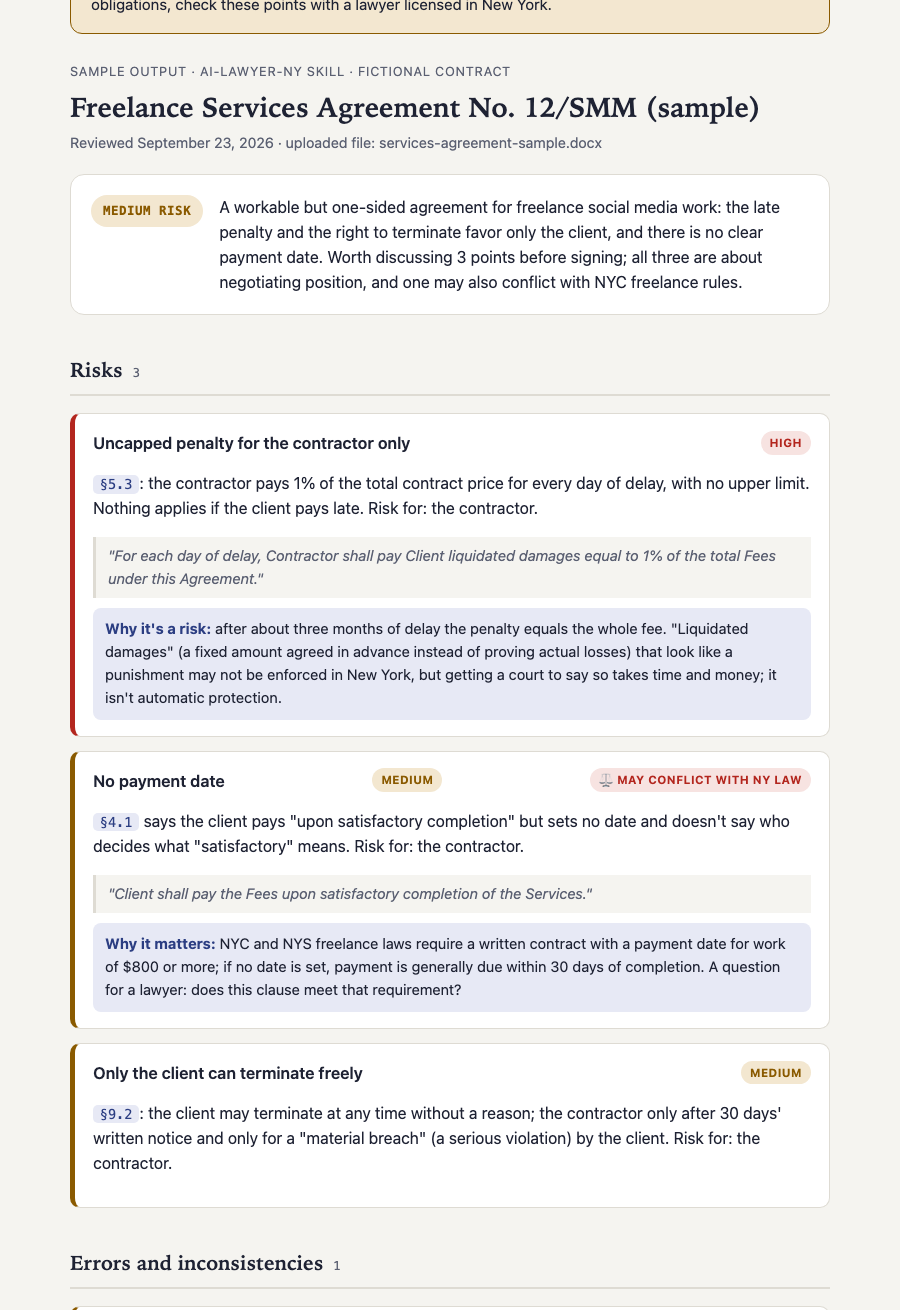
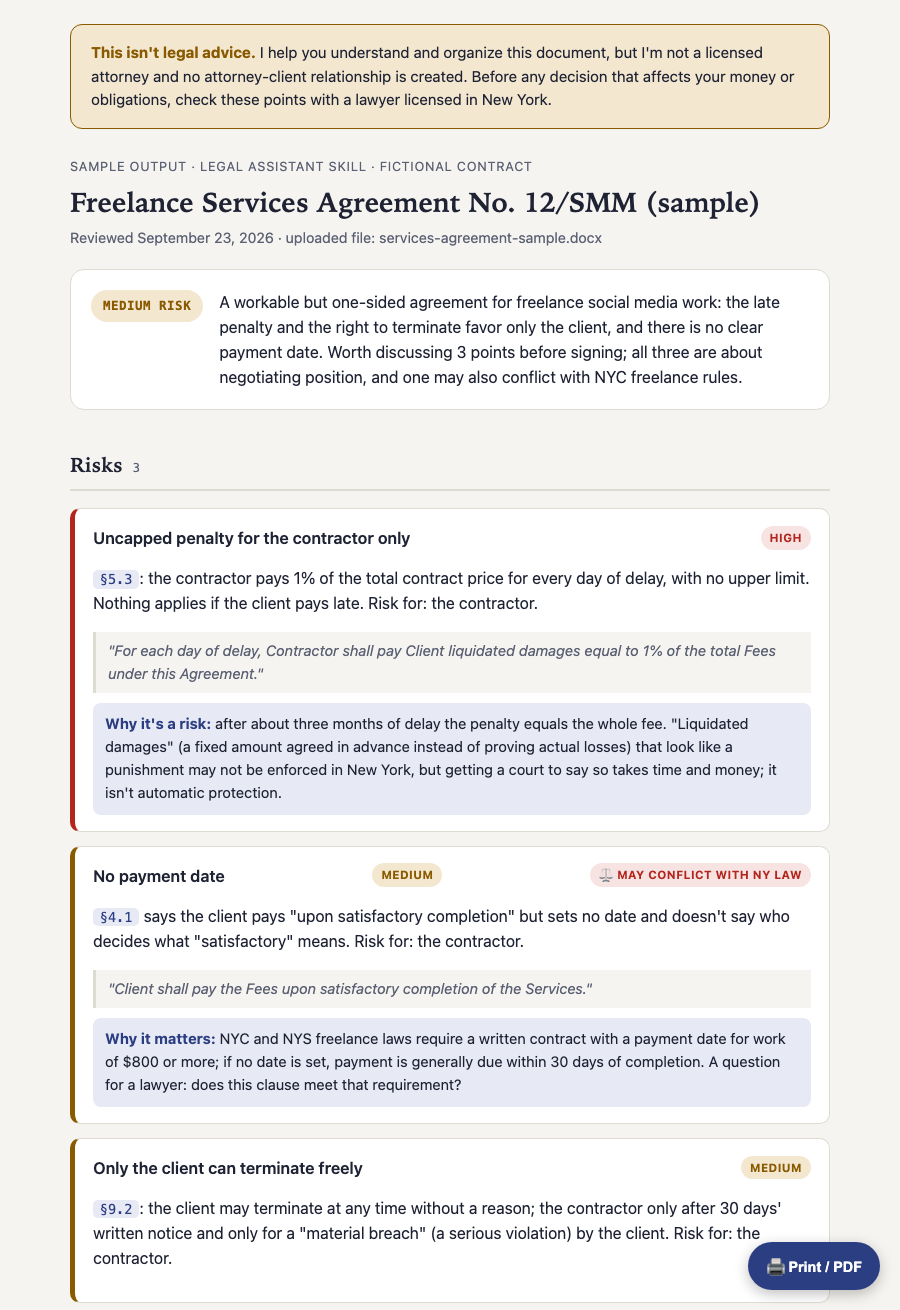
Rename to Legal Assistant and AI Text Critic, drop Russian skills, add Telegram Notifier and scheduled automations

Changed region(s): [[0.0622, 0.2748, 0.9956, 1.0], [0.0622, 0.0, 0.9333, 0.3053]]

diff --git a/examples/contract-review-sample.html b/examples/contract-review-sample.html
@@ -289,7 +289,7 @@
   </div>
 
   <header class="doc-head">
-    <div class="eyebrow">Sample output · ai-lawyer-ny skill · fictional contract</div>
+    <div class="eyebrow">Sample output · Legal Assistant skill · fictional contract</div>
     <h1>Freelance Services Agreement No. 12/SMM (sample)</h1>
     <div class="meta">Reviewed September 23, 2026 · uploaded file: services-agreement-sample.docx</div>
   </header>
@@ -404,7 +404,7 @@
       <div>🚫 I don't guarantee the outcome of a dispute or case</div>
       <div>🚫 I don't replace a New York lawyer</div>
     </div>
-    <p>Prepared by the "AI Paralegal NY" skill (Claude). This is a working summary to
+    <p>Prepared by the Legal Assistant skill (Claude). This is a working summary to
     prepare for a consultation, not a legal opinion.</p>
   </footer>
 

diff --git a/README.md b/README.md
@@ -1,36 +1,45 @@
 # Claude Skills
 
-Custom skills for Claude Code that I built and use in my own work. This page describes what each
-one does and shows sample output. The source is private.
+Custom skills and automations for Claude Code that I built and use in my own work. This page describes what each one does and shows sample output. The source is private.
 
 | Skill | What it does |
 |---|---|
-| **ai-lawyer-ny** | Reads a contract with New York State and New York City rules in mind. Flags risky clauses, checks section and exhibit references, suggests better wording and produces a plain-English HTML report with color-coded risk levels. |
-| **ai-yurist** | The same review for contracts under Russian law. *Yurist* is Russian for "lawyer". The report is written in the user's language. |
-| **ai-text-critic-en** | Checks whether an English text reads as AI-written and rewrites it in plain American business English. Built for resumes, cover letters and LinkedIn posts. Includes a Python script that scores the text. |
-| **ai-text-critic** | The same check for Russian texts. |
+| **Legal Assistant** | Reads a contract with New York State and New York City rules in mind. Flags risky clauses, checks section and exhibit references, suggests better wording and produces a plain-English HTML report with color-coded risk levels. Handles one document or a batch in a single report. |
+| **AI Text Critic** | Checks whether an English text reads as AI-written and rewrites it in plain American business English. Built for resumes, cover letters and LinkedIn posts. Includes a Python script that scores the text. |
+| **Telegram Notifier** | Sets up a personal Telegram bot so scripts, scheduled tasks and Claude itself can send short status messages to my phone. No server, one API call. |
+| **Scheduled automations** | Tasks Claude runs on its own on a schedule: a weekday morning brief and a daily capture of public data from a website. |
 
 ## Sample output
 
-### Contract review (ai-lawyer-ny)
+### Legal Assistant
 
-A review of a fictional freelance services agreement. Three risks, one broken exhibit reference,
-three proposed rewrites and a numbering check.
+A review of a fictional freelance services agreement. Three risks, one broken exhibit reference, three proposed rewrites and a numbering check.
 
 [Open the full report](https://mariamatveeva2020.github.io/claude-skills/examples/contract-review-sample.html)
 
 [![Contract review sample](examples/contract-review-sample.png)](https://mariamatveeva2020.github.io/claude-skills/examples/contract-review-sample.html)
 
-### Text check (ai-text-critic-en)
+### AI Text Critic
 
-A fictional resume summary and cover-letter opening, before and after: AI trace 68/100 → 6/100.
+A fictional resume summary and cover-letter opening, before and after. The AI trace score drops from 68/100 to 6/100.
 
 [See the before and after](examples/text-check-before-after.md)
 
-## Note on the legal skills
+### Telegram Notifier
 
-The contract skills prepare facts for a conversation with a lawyer. They do not give legal advice,
-do not say whether to sign, and do not replace a licensed attorney.
+How the bot is set up and what its messages look like.
+
+[See how it works](examples/telegram-notifier.md)
+
+### Scheduled automations
+
+What runs, when, and what lands on my phone.
+
+[See the automations](examples/scheduled-automations.md)
+
+## Note on the legal skill
+
+The Legal Assistant prepares facts for a conversation with a lawyer. It does not give legal advice, does not say whether to sign, and does not replace a licensed attorney.
 
 ## Want to see one in action?
 

diff --git a/examples/telegram-notifier.md b/examples/telegram-notifier.md
@@ -1,0 +1,32 @@
+# Telegram Notifier
+
+A personal Telegram bot that sends me short status messages. Any script, scheduled task or Claude session can use it. There is no server and nothing running in the background: each message is one call to the Telegram Bot API.
+
+## What the skill does
+
+1. Walks through creating the bot in @BotFather and naming it.
+2. Finds the chat ID the bot should write to.
+3. Copies a tested sending script into the project. Python standard library only, nothing to install.
+4. Keeps the bot token in a local `.env` file, never in code or in git.
+5. Sends a test message and waits for confirmation that it arrived before calling the setup done.
+6. Shows how to hook it up: from a script, at the end of a Claude Code task, or from a scheduled check.
+
+## Writing rules the bot follows
+
+Messages are read on a phone, so the skill keeps them short:
+
+- One event, one message.
+- The first line is the result or the blocker, not the process.
+- Two to four lines in total, plain words, no error codes.
+- At most one or two status emoji.
+
+## Sample messages
+
+> ✅ Daily data capture done
+> Two screenshots saved to the Claude folder.
+
+> ⚠ Couldn't open the source page
+> The site didn't respond. I'll try again tomorrow morning.
+
+> ⏳ Contract review needs your input
+> Which party are you in this lease, tenant or guarantor?

diff --git a/examples/scheduled-automations.md b/examples/scheduled-automations.md
@@ -1,0 +1,24 @@
+# Scheduled automations
+
+Claude can run a task on a schedule without anyone starting it. I use this for routine checks that used to eat a few minutes every morning. Now they don't.
+
+## Weekday morning brief
+
+Every weekday morning Claude puts together one page: what's on today's calendar, which messages need an answer, and what's due. I read it on my phone before the day starts instead of opening four apps.
+
+## Daily public-data capture
+
+Every morning Claude opens a public website in the browser, takes screenshots of that day's figures, saves them to a dated file and sends them to me with the three numbers I care about pulled out.
+
+Rules written into the task:
+
+- Work in its own browser tab and never touch my open tabs.
+- Never accept cookie banners or agreements on my behalf.
+- Never overwrite an earlier day's file.
+- If the browser or the site is unavailable, say so once and stop. No endless retries.
+
+## Why this matters
+
+Each task is a short written instruction, not code. Once tested, it runs the same way every day.
+
+When something breaks, I get a clear message. Not a silent gap.

diff --git a/examples/text-check-before-after.md b/examples/text-check-before-after.md
@@ -1,4 +1,4 @@
-# Sample output: ai-text-critic-en
+# Sample output: AI Text Critic
 
 A fictional resume summary, two bullets and a cover-letter opening, checked by the skill and
 rewritten. The scores come from the skill's checker script, run on both versions.
